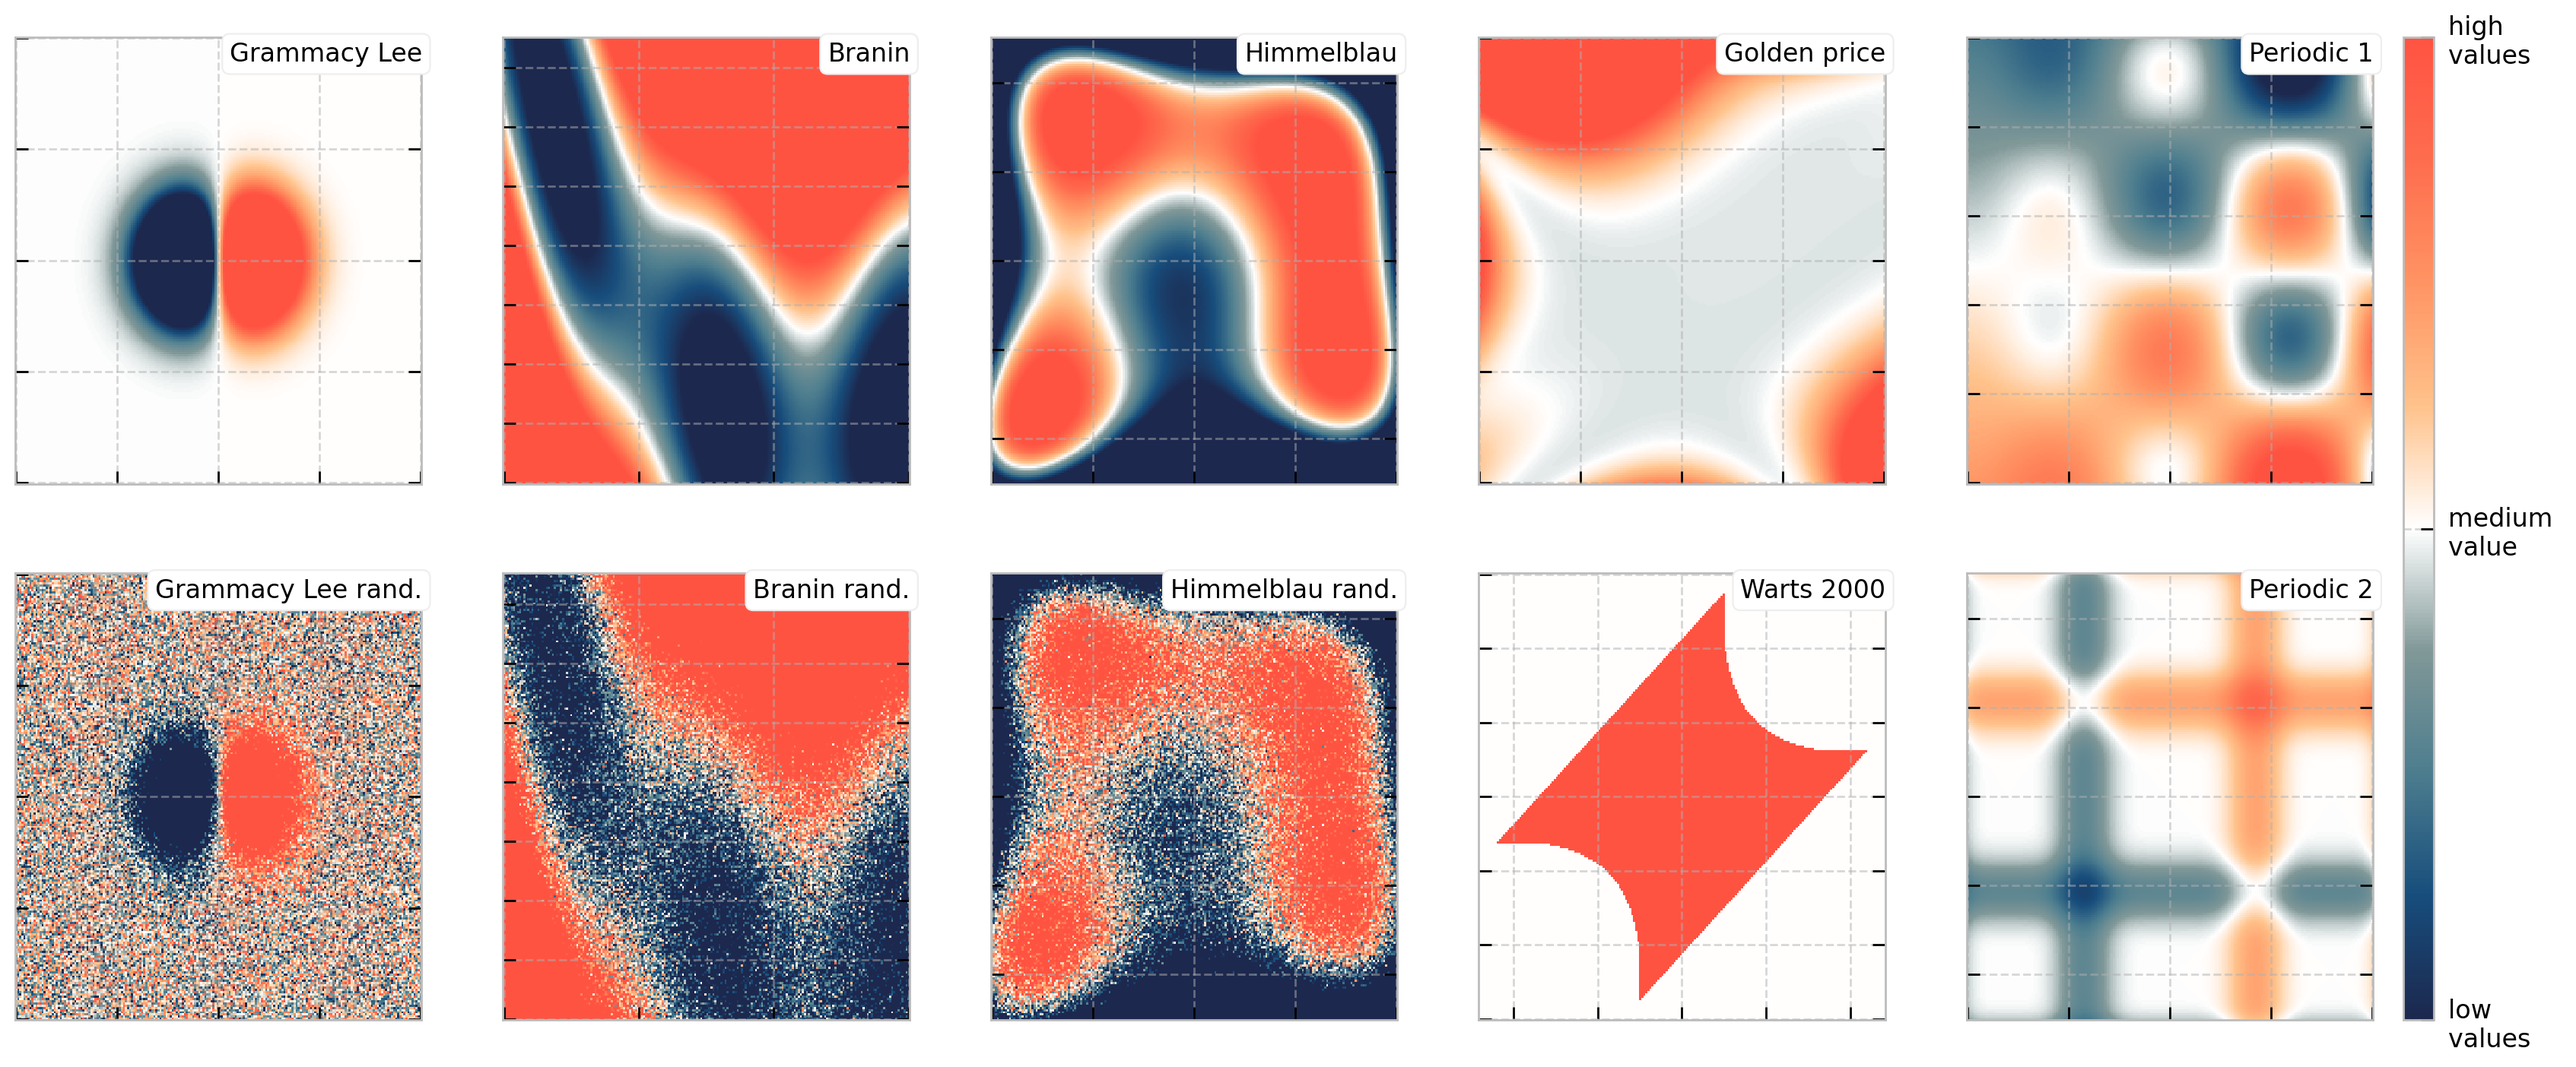
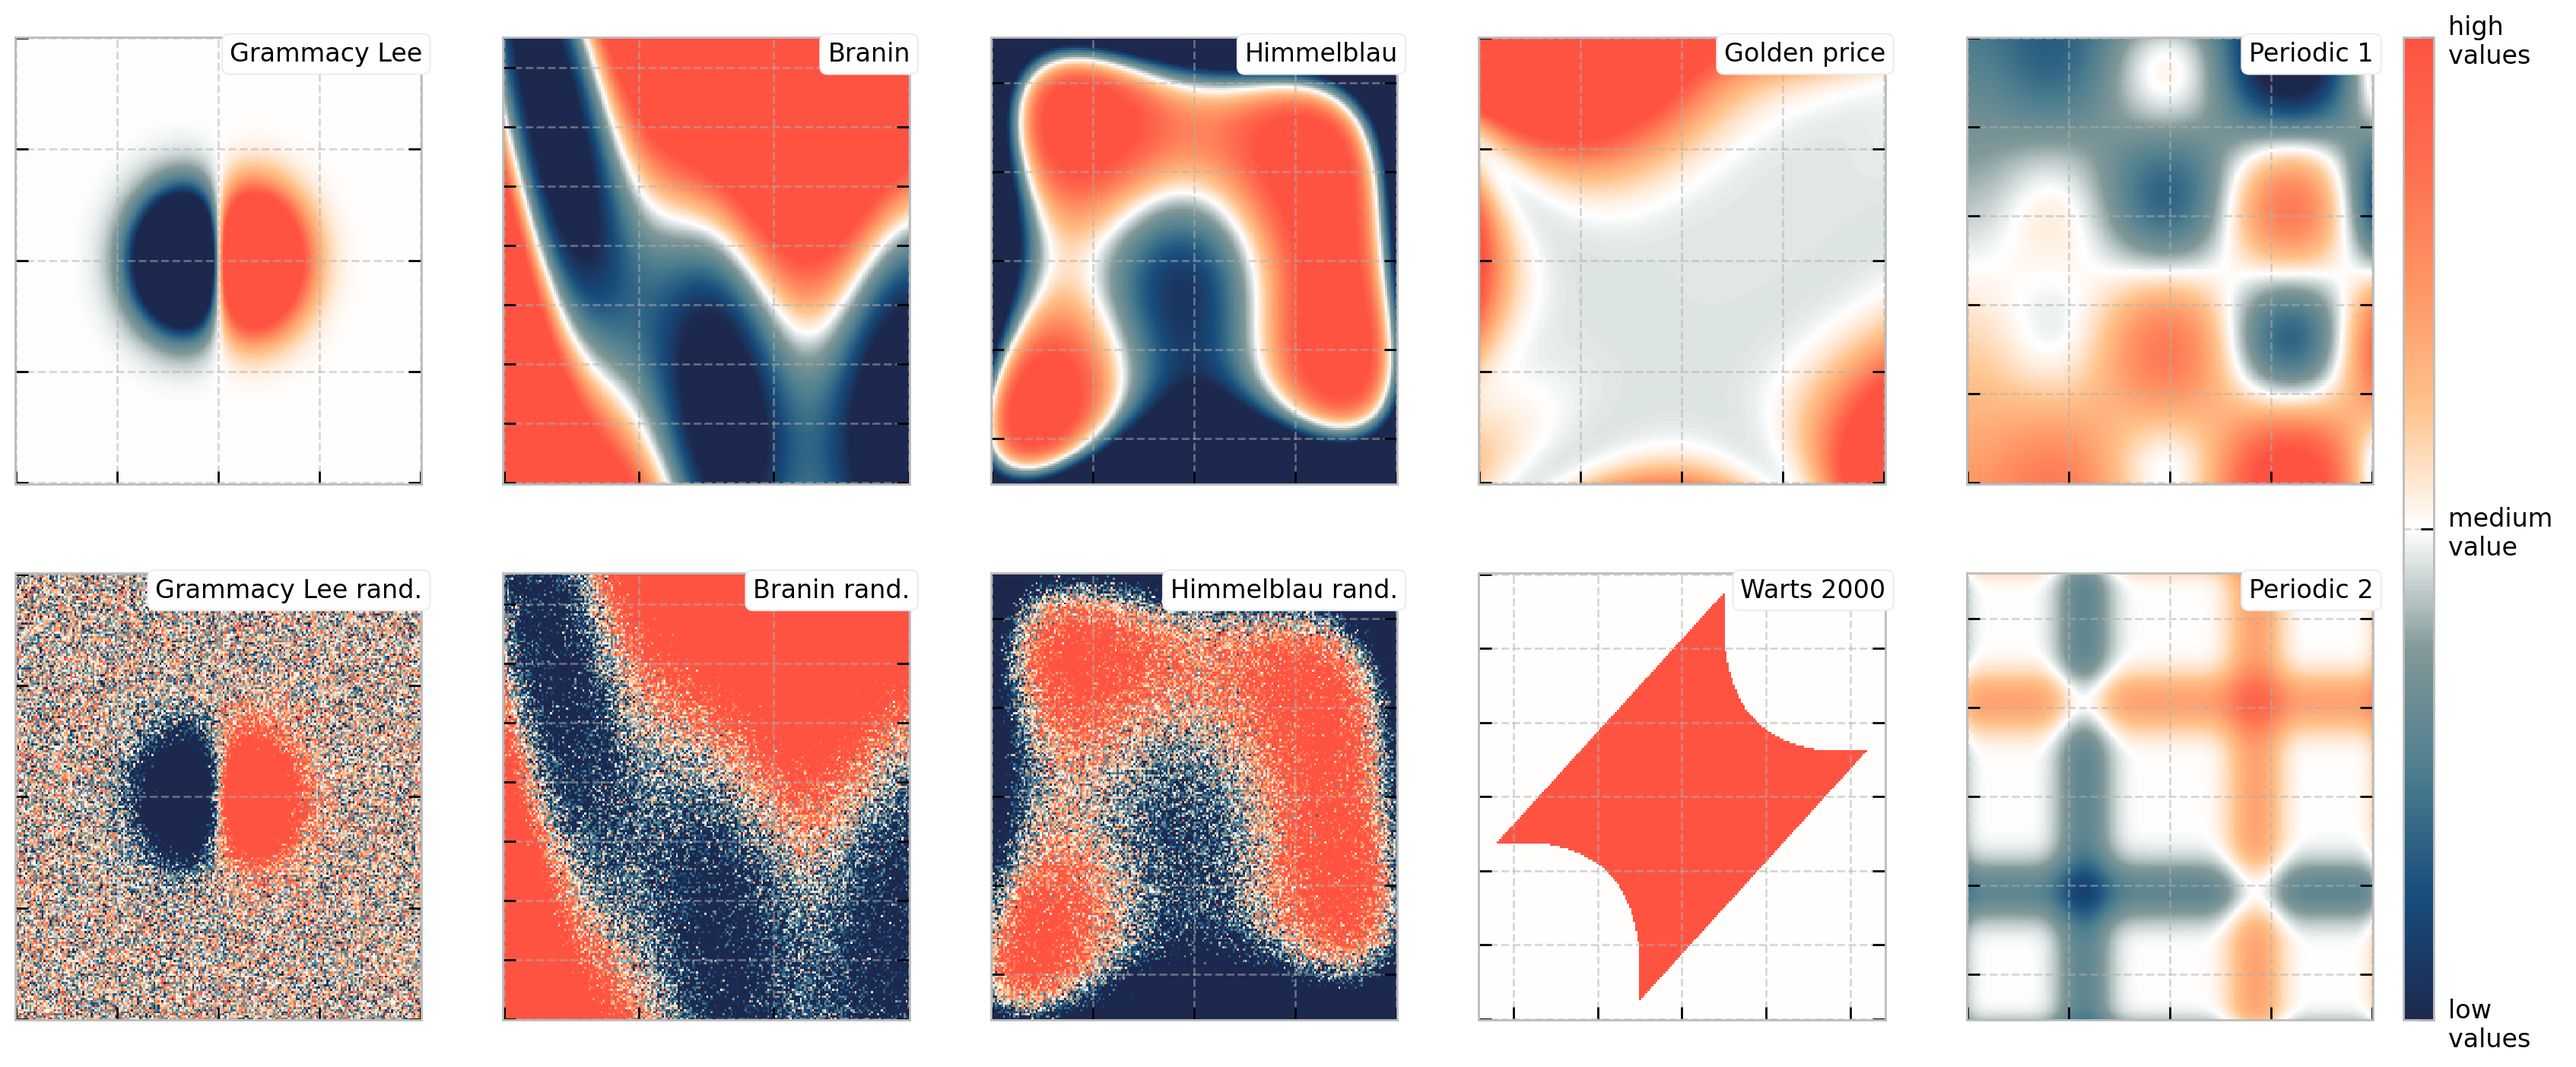
[dEV] benchmark

Changed region(s): [[0.0, 0.5207, 0.558, 0.9801]]

diff --git a/active_learning/benchmark/utils.py b/active_learning/benchmark/utils.py
@@ -22,7 +22,8 @@ def plot_benchmark_whole_analysis(data: pd.DataFrame, n_functions=None) -> None:
     if n_functions is None:
         n_functions = len(data["function_hash"].drop_duplicates())
     matplotlib.rcParams.update({'font.size': 6})
-    functions__ = data["name"].astype(str).str.replace("_passive", "").drop_duplicates()
+    functions__ = data["name"].astype(str).str.replace("_passive",
+                                                       "").drop_duplicates()
     fig, ax = plt.subplots(
         ncols=len(functions__) // 2 + len(functions__) % 2,
         nrows=2, figsize=(n_functions * 0.7, 3.5))
@@ -46,7 +47,8 @@ def plot_benchmark_whole_analysis(data: pd.DataFrame, n_functions=None) -> None:
                 label = '_nolegend_'
             else:
                 label = n
-            sns.lineplot(data=data_, x="num_sample", y="L2-norm", label=label, color=color, ax=ax_)
+            sns.lineplot(data=data_, x="num_sample", y="L2-norm", label=label,
+                         color=color, ax=ax_)
         ax_.annotate(f, xy=(1, 0.9), xycoords='axes fraction',
                      xytext=(1, 20), textcoords='offset pixels',
                      horizontalalignment='right',
@@ -69,20 +71,27 @@ def plot_benchmark_whole_analysis(data: pd.DataFrame, n_functions=None) -> None:
 
 
 def plot_benchmark(data: pd.DataFrame) -> None:
-    functions__ = data["name"].astype(str).str.split("@", expand=True)[0].drop_duplicates()
-    n_functions = len(functions__)
+    from active_learning.benchmark import functions
+    function_list = data["name"].astype(str).str.split("@", expand=True)[
+        0].drop_duplicates()
+    function_list = [f for f in functions.function_parameters.keys() if
+                     f in function_list]
+
+    n_functions = len(function_list)
     fig, ax = plt.subplots(
         ncols=n_functions // 2 + n_functions % 2,
-        nrows=min(n_functions, 2), figsize=(n_functions // 2 * 2 + 4, 6), dpi=400)
+        nrows=min(n_functions, 2), figsize=(n_functions // 2 * 2 + 4, 6),
+        dpi=400)
     all_handles = []
     all_labels = []
 
-    all_methods = np.unique([__name.split("@")[1] for __name in data["name"].drop_duplicates().values])
+    all_methods = np.unique([__name.split("@")[1] for __name in
+                             data["name"].drop_duplicates().values])
     if isinstance(ax, plt.Axes):
         ax = np.array([ax])
     if ax.shape.__len__() == 1:
         ax = ax.reshape(-1, 1)
-    for i, f in enumerate(functions__):
+    for i, f in enumerate(function_list):
         print(f)
         __ax: plt.Axes = ax[i % 2, i // 2]
 
@@ -92,7 +101,8 @@ def plot_benchmark(data: pd.DataFrame) -> None:
             color = f"C{j}"
 
             if len(data_) > 0:
-                sns.lineplot(data=data_, x="num_sample", y="L2-norm", label=label, color=color, ax=__ax)
+                sns.lineplot(data=data_, x="num_sample", y="L2-norm",
+                             label=label, color=color, ax=__ax)
             handles, labels = plt.gca().get_legend_handles_labels()
             all_handles.extend(handles)
             all_labels.extend(labels)
@@ -121,10 +131,8 @@ def plot_benchmark(data: pd.DataFrame) -> None:
         bbox_to_anchor=(0.6, 0.98),
         # loc='lower left',
         # mode="expand",
-
         loc='upper center',
-
-        ncol=2)
+        ncol=3)
 
 
 def integrate(f: callable, bounds: iter, num_mc=int(1E6)):
@@ -140,7 +148,8 @@ def integrate(f: callable, bounds: iter, num_mc=int(1E6)):
 
 def evaluate(true_function, learned_surface, bounds, num_mc=int(1E6), l=2):
     def f(x):
-        return np.abs(np.ravel(true_function(x)) - np.ravel(learned_surface(x))) ** l
+        return np.abs(
+            np.ravel(true_function(x)) - np.ravel(learned_surface(x))) ** l
 
     return integrate(f, bounds, num_mc) ** (1 / l)
 
@@ -184,7 +193,8 @@ def plot_iterations_1d(test, iteration_max=None, color="b"):
     if iteration_max is None:
         iteration_max = int(test.indexes.max())
     n_row = int(np.sqrt(iteration_max))
-    fig, axs = plt.subplots(iteration_max // n_row, n_row, sharey=True, sharex=True,
+    fig, axs = plt.subplots(iteration_max // n_row, n_row, sharey=True,
+                            sharex=True,
                             figsize=(6, 6), dpi=200)
 
     for iteration, ax in enumerate(axs.ravel()):
@@ -195,7 +205,8 @@ def plot_iterations_1d(test, iteration_max=None, color="b"):
         prediction = learner.predict(domain.reshape(-1, 1))
         ax.plot(domain, test.f(domain), color="grey", linestyle="--", zorder=0)
         training_dataset = test.x_input.loc[test.indexes <= iteration + 1]
-        ax.plot(domain, prediction, color=color, label=f"N = {len(training_dataset)}", zorder=5)
+        ax.plot(domain, prediction, color=color,
+                label=f"N = {len(training_dataset)}", zorder=5)
         new_samples = test.x_input.loc[test.indexes == iteration + 2]
 
         if hasattr(learner, 'active_criterion'):
@@ -234,7 +245,8 @@ def plot_active_function(test, color="b"):
         error = active_criterion(domain.reshape(-1, 1))
         prediction = learner.surface(domain.reshape(-1, 1))
 
-        ax.plot(domain, prediction, color=color, label="iter={}".format(iter), zorder=5)
+        ax.plot(domain, prediction, color=color, label="iter={}".format(iter),
+                zorder=5)
         ax.plot(domain, test.f(domain), color="grey", linestyle="--", zorder=0)
 
         ax.fill_between(domain.ravel(), prediction - error,
@@ -276,13 +288,3 @@ def write_benchmark(
 def read_benchmark(path="data/benchmark.csv"):
     return pd.read_csv(path)
 
-# def plot_benchmark(data: pd.DataFrame, cmap="rainbow_r"):
-#     import matplotlib.pyplot as plt
-#     import seaborn as sns
-#
-#     names = data["name"].drop_duplicates().values
-#     for i, n in enumerate(names):
-#         data_ = data[data["name"] == n]
-#         color = plt.get_cmap(cmap)(i / (len(names)))
-#         sns.lineplot(data=data_, x="num_sample", y="L2-norm", label=n,
-#                      color=color)

diff --git a/active_learning/benchmark/functions.py b/active_learning/benchmark/functions.py
@@ -248,7 +248,10 @@ def plot_benchmark_functions():
         figsize=(10, 4.2),
         ncols=len(__all2D__) // 2 + len(__all2D__) % 2,
         nrows=2, dpi=400)
-    for i, fun in enumerate(__all2D__):
+
+    function_list = list(np.sort(__all2D__))
+    function_list = [f for f in function_parameters.keys() if f in function_list]
+    for i, fun in enumerate(function_list):
         if not fun in function_parameters.keys():
             continue
         bounds_ = np.array(bounds[function_parameters[fun]["fun"]])
